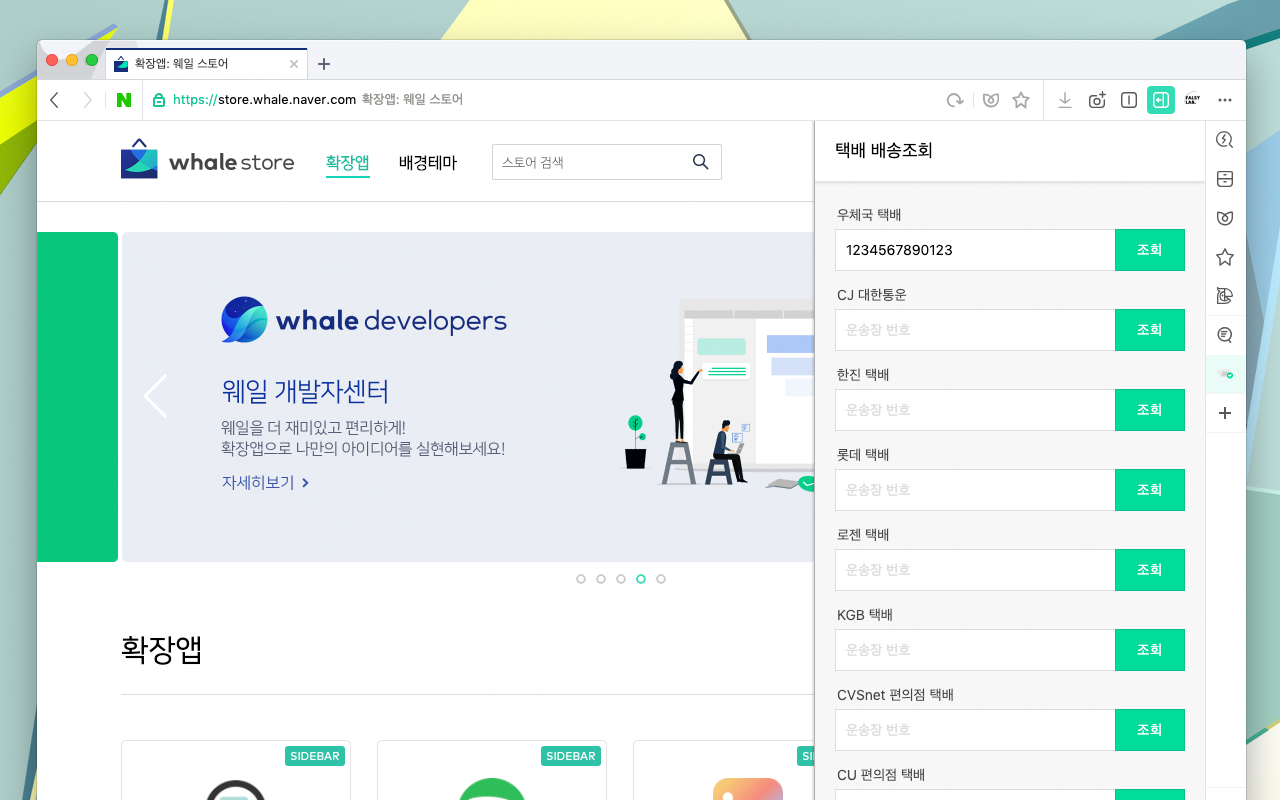
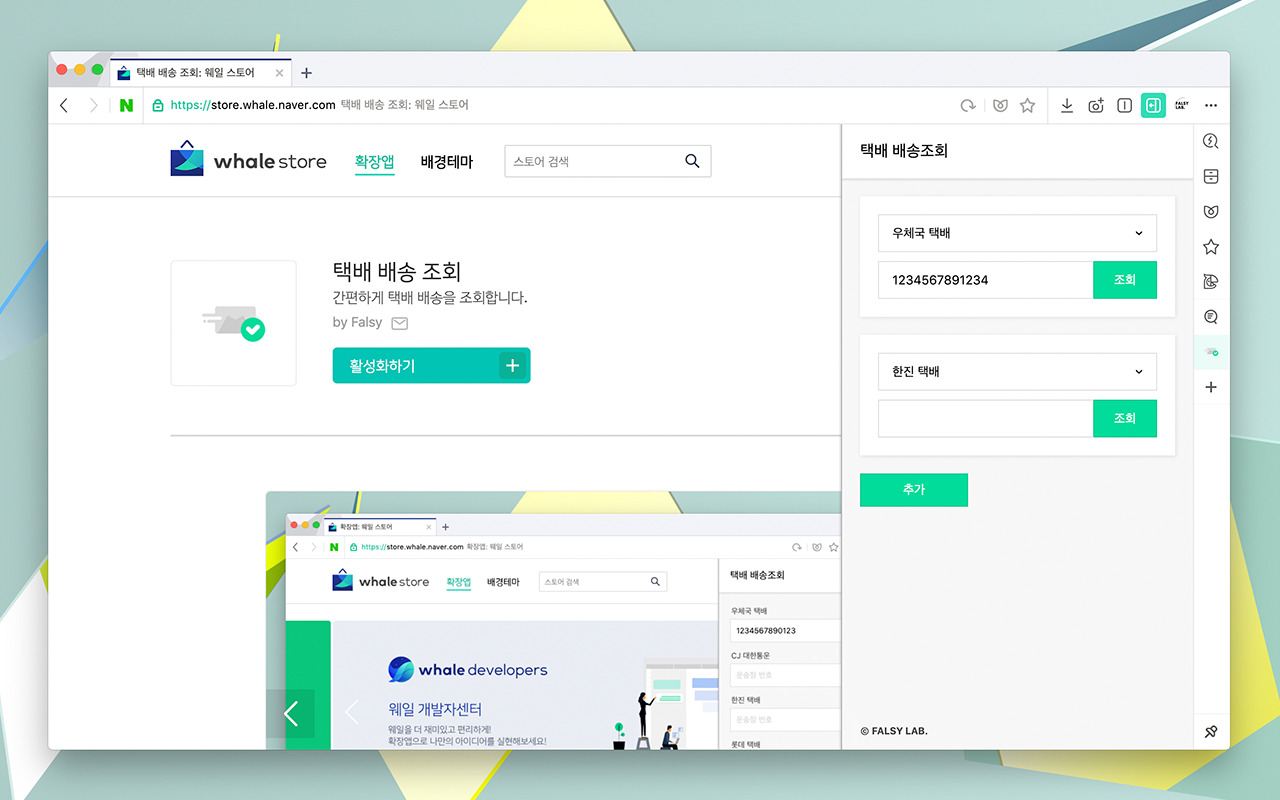
v1.3.0
* 택배 회사 셀렉트 박스로 UI 변경
* 동적으로 배송 조회 추가/삭제 가능하도록 수정

diff --git a/src/index.js b/src/index.js
@@ -75,30 +75,24 @@ class Delivery {
     this.deliveryList.appendChild(container);
   }
 
-  // cachePostNumber() {
-  //   const cachePostNoList = WebStorage.get(POST_NUMBER) || {};
-  //   for(const target in cachePostNoList) {
-  //     document.getElementById(target).value = cachePostNoList[target];
-  //   }
-  // }
-
-  // claerPostNumber() {
-  //   for(const key in DELIVERY_LIST) {
-  //     document.getElementById(key).value = '';
-  //   }
-  // }
-
   eventListener() {
     this.body.addEventListener('click', (e) => {
       const selectbox = document.getElementsByClassName('select-box-list');
       const tName = e.target.className;
       
       if(tName === 'delivery-btn') {
-        const apiTarget = e.target.dataset.target;
-        const apiUrl = DELIVERY_LIST[apiTarget].api;
-        const postNumber = document.getElementById(apiTarget).value;
+        const deliveryList = WebStorage.get(DELIVERY_DATA);
+        const container = e.target.parentElement;
+        const cIndex = container.dataset.cIndex;
+        const dIndex = container.dataset.dIndex;
+        const apiTarget = DELIVERY_LIST[dIndex].name;
+        const apiUrl = DELIVERY_LIST[dIndex].api;
+        const postNumber = e.target.previousElementSibling.value;
 
-        if(apiTarget === 'daesin_post') {
+        deliveryList[cIndex].code = postNumber;
+        WebStorage.set(DELIVERY_DATA, deliveryList);
+
+        if(apiTarget === '대신 택배') {
           const billno1 = '?billno1=' + String(postNumber).substring(0, 4);
           const billno2 = '&billno2=' + String(postNumber).substring(4, 7);
           const billno3 = '&billno3=' + String(postNumber).substring(7, 13);
@@ -111,7 +105,7 @@ class Delivery {
 
       if(tName === 'select-box') {
         const display = e.target.nextElementSibling.style.display === 'none' ? 'block' : 'none';
-        
+
         e.target.nextElementSibling.style.display = display;
       } else {
         for(const select of selectbox) {

diff --git a/src/styles/main.css b/src/styles/main.css
@@ -157,6 +157,6 @@ footer {
 	font-weight: bold;
 	position: fixed;
   bottom: 15px;
-  left: 15px;
+  left: 20px;
 }
 

diff --git a/changelog.md b/changelog.md
@@ -1,3 +1,8 @@
+## v1.3.0
+### 2019-05-13
+* 택배 회사 셀렉트 박스로 UI 변경
+* 동적으로 배송 조회 추가/삭제 가능하도록 수정
+
 ## v1.2.0
 ### 2019-04-26
 * 스타일 추가
